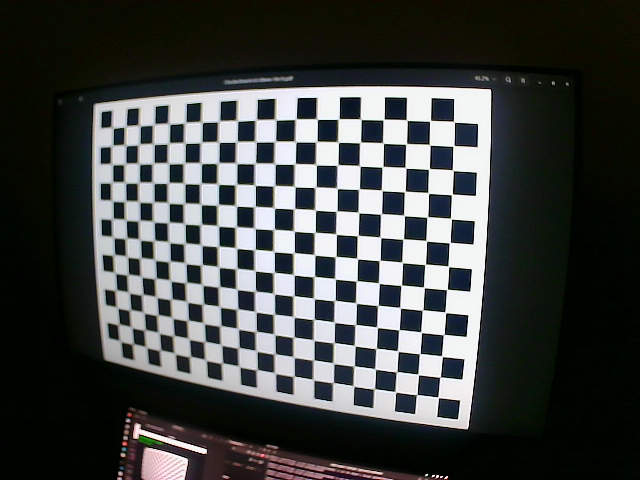
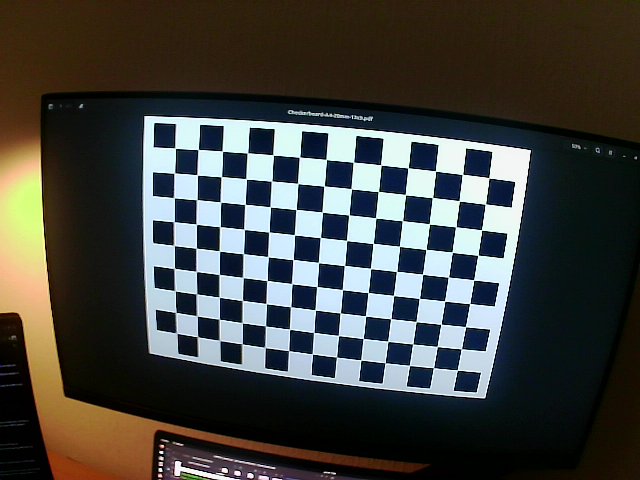
add second A4 checkboard

diff --git a/undistort_camera.py b/undistort_camera.py
@@ -1,0 +1,136 @@
+#!/usr/bin/env python
+
+import json
+import argparse
+import sys
+import cv2 as cv
+import numpy as np
+
+def main(camera_index : int,
+         json_path : str) -> None:
+
+    print("[INFO] Parsing Json calib file ..")
+    with open(json_path, 'r') as calib_file:
+        calib_dict = json.load(calib_file)
+    calib_w = calib_dict["cameraRes"][0]
+    calib_h = calib_dict["cameraRes"][1]
+    calib_mtx = np.asarray(calib_dict["cameraMatrix"])
+    calib_dist = np.asarray(calib_dict["distortion"])
+
+    print("[INFO] Opening camera stream ..")
+    cap = cv.VideoCapture(camera_index)
+    if int(cap.get(cv.CAP_PROP_FRAME_WIDTH))!=calib_w and int(cap.get(cv.CAP_PROP_FRAME_HEIGHT))!=calib_h:
+        sys.exit("[ERROR] camera width and height not corresponding with current camera res")
+
+
+    newCameraMatrix, roi = cv.getOptimalNewCameraMatrix(calib_mtx,
+                                                        calib_dist,
+                                                        (calib_w,calib_h),
+                                                        1,
+                                                        (calib_w,calib_h))
+    x, y, w, h = roi
+    
+
+    # i = 0
+    while True:
+        ret, img = cap.read()
+
+
+        # undistort
+        dst_1 = cv.undistort(img,
+                           calib_mtx,
+                           calib_dist,
+                           None,
+                           newCameraMatrix)
+        # crop image
+        dst_1 = dst_1[y:y+h, x:x+w]
+        # crop the image
+        cv.imshow('caliResult1', dst_1)
+
+
+
+        mapx, mapy = cv.initUndistortRectifyMap(calib_mtx,
+                                                calib_dist,
+                                                None,
+                                                newCameraMatrix,
+                                                (calib_w,calib_h),
+                                                5)
+        dst_2 = cv.remap(img, mapx, mapy, cv.INTER_LINEAR)
+        cv.imshow('caliResult2', dst_2)
+
+
+
+
+
+        # sho_frame = frame.copy()
+        # # cv.putText(sho_frame, "Press 'Backspace' to capture", (10, 30), cv.FONT_HERSHEY_SIMPLEX, 0.5, (0, 255, 0), 1)
+        # cv.putText(sho_frame, "Press 'q' to exit", (10, 30), cv.FONT_HERSHEY_SIMPLEX, 0.5, (0, 255, 0), 1)
+        # cv.imshow("preview", sho_frame)
+        
+        key = cv.waitKey(1)
+        # if key == 32:  # backspace
+        #     cv.imwrite("images/img" + str(i) + ".png", frame)
+        #     i += 1
+        #     print(f"[INFO ]Image {i} saved")
+        if key == ord("q"):
+            print("[INFO] exiting...")
+            break
+
+    cap.release()
+    cv.destroyAllWindows()
+
+
+
+    # img = cv.imread('cali5.png')
+    # h,  w = img.shape[:2]
+    
+    # newCameraMatrix, roi = cv.getOptimalNewCameraMatrix(cameraMatrix,
+    #                                                     dist,
+    #                                                     (calib_w,calib_h),
+    #                                                     1,
+    #                                                     (calib_w,calib_h))
+
+
+
+    # # Undistort
+    # dst = cv.undistort(img, cameraMatrix, dist, None, newCameraMatrix)
+
+    # # crop the image
+    # x, y, w, h = roi
+    # dst = dst[y:y+h, x:x+w]
+    # cv.imwrite('caliResult1.png', dst)
+
+
+
+    # # Undistort with Remapping
+    # mapx, mapy = cv.initUndistortRectifyMap(cameraMatrix, dist, None, newCameraMatrix, (w,h), 5)
+    # dst = cv.remap(img, mapx, mapy, cv.INTER_LINEAR)
+
+    # # crop the image
+    # x, y, w, h = roi
+    # dst = dst[y:y+h, x:x+w]
+    # cv.imwrite('caliResult2.png', dst)
+
+
+
+
+if __name__ == '__main__':
+    parser = argparse.ArgumentParser(description='Get frame feed from camera by undistorting')
+    parser.add_argument('--cameraIndex', '-I',
+                        type=int,
+                        nargs='?',
+                        required=True,
+                        help='an integer corresponding to the camera port index')
+    parser.add_argument('--jsonPath', '-J',
+                        type=str,
+                        required=True,
+                        help='the path to the Json undistortion param for the camera')
+
+    args = parser.parse_args()
+    if args.cameraIndex is not None:
+        _camera_index = args.cameraIndex
+    if args.jsonPath is not None:
+        _json_path = args.jsonPath
+        
+    main(camera_index=_camera_index,
+         json_path=_json_path)

diff --git a/calibrate_camera.py b/calibrate_camera.py
@@ -69,8 +69,9 @@ def main(chessboard_horizontal : int,
     print("[INFO] Printing results json file ..")
     print("[INFO] Saving camera 3x3 matrix and vector of distortion coefficients")
     with open("camera_calibration.json", "w") as f:
-        json.dump({"cameraMatrix": cameraMatrix.tolist(),
-                "distortion": dist.tolist()}, f, indent=2)
+        json.dump({"cameraRes" : [int(frame_width), int(frame_height)],
+                   "cameraMatrix": cameraMatrix.tolist(),
+                   "distortion": dist.tolist()}, f, indent=2)
 
 
 if __name__ == '__main__':

diff --git a/README.md b/README.md
@@ -17,6 +17,7 @@
 ```bash
 ./capture_img.py -I 2
 ```
+Where `-I 2` indicates the index of the camera in respect to your usb ports.
 
 **[2]** For running the calibration use the tag `-H` for the horizontal intern corners of the chessboard's squares, `-V` the same for the vertical and `-S` for the size in mm of a single square:
 ```bash
